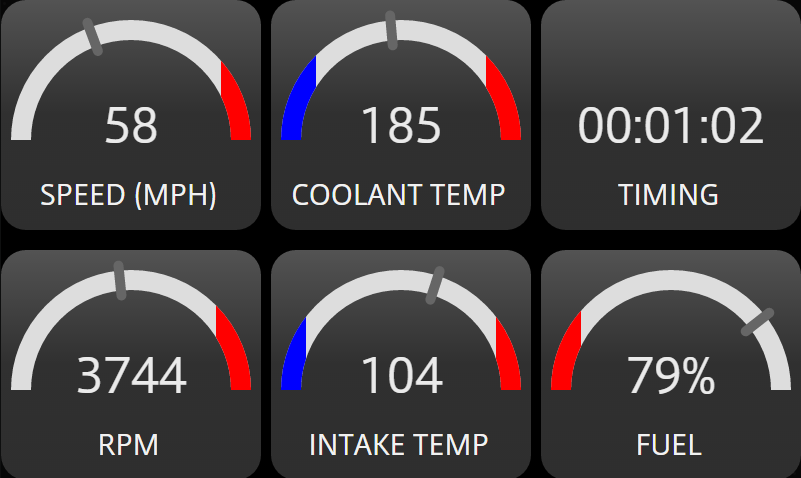
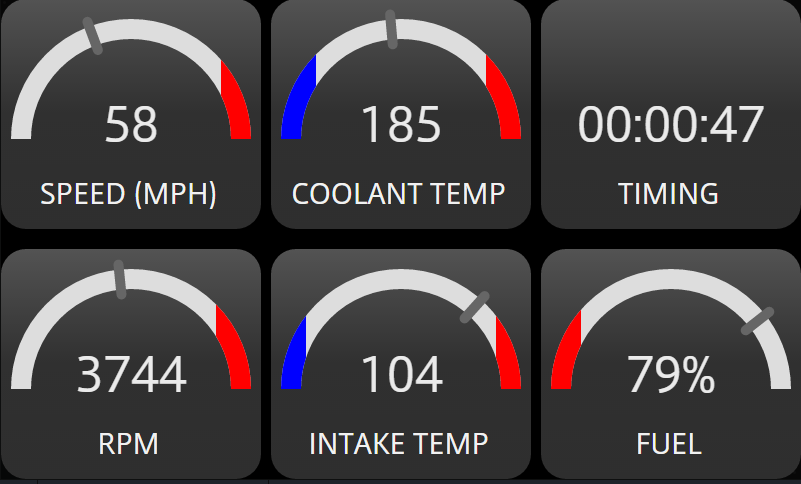
fixing scale for intake temp

diff --git a/apps/app.cannonball/gauge.js b/apps/app.cannonball/gauge.js
@@ -23,7 +23,7 @@ function updateGauges(speed, RPM, fuel, coolantTemp, intakeTemp) {
     coolantTempGaugeNeedle.css('transform', 'rotate(' + degrees + 'deg)');        //value.textContent = coolant temp;
 
     intakeTemp = calculateTemp(intakeTemp);
-    degrees = (scaleValue(intakeTemp, 50, 95, 140));
+    degrees = (scaleValue(intakeTemp, 50, 90, 120));
     intakeTempGaugeNeedle.css('transform', 'rotate(' + degrees + 'deg)');        //value.textContent = intake temp;
 }
 
